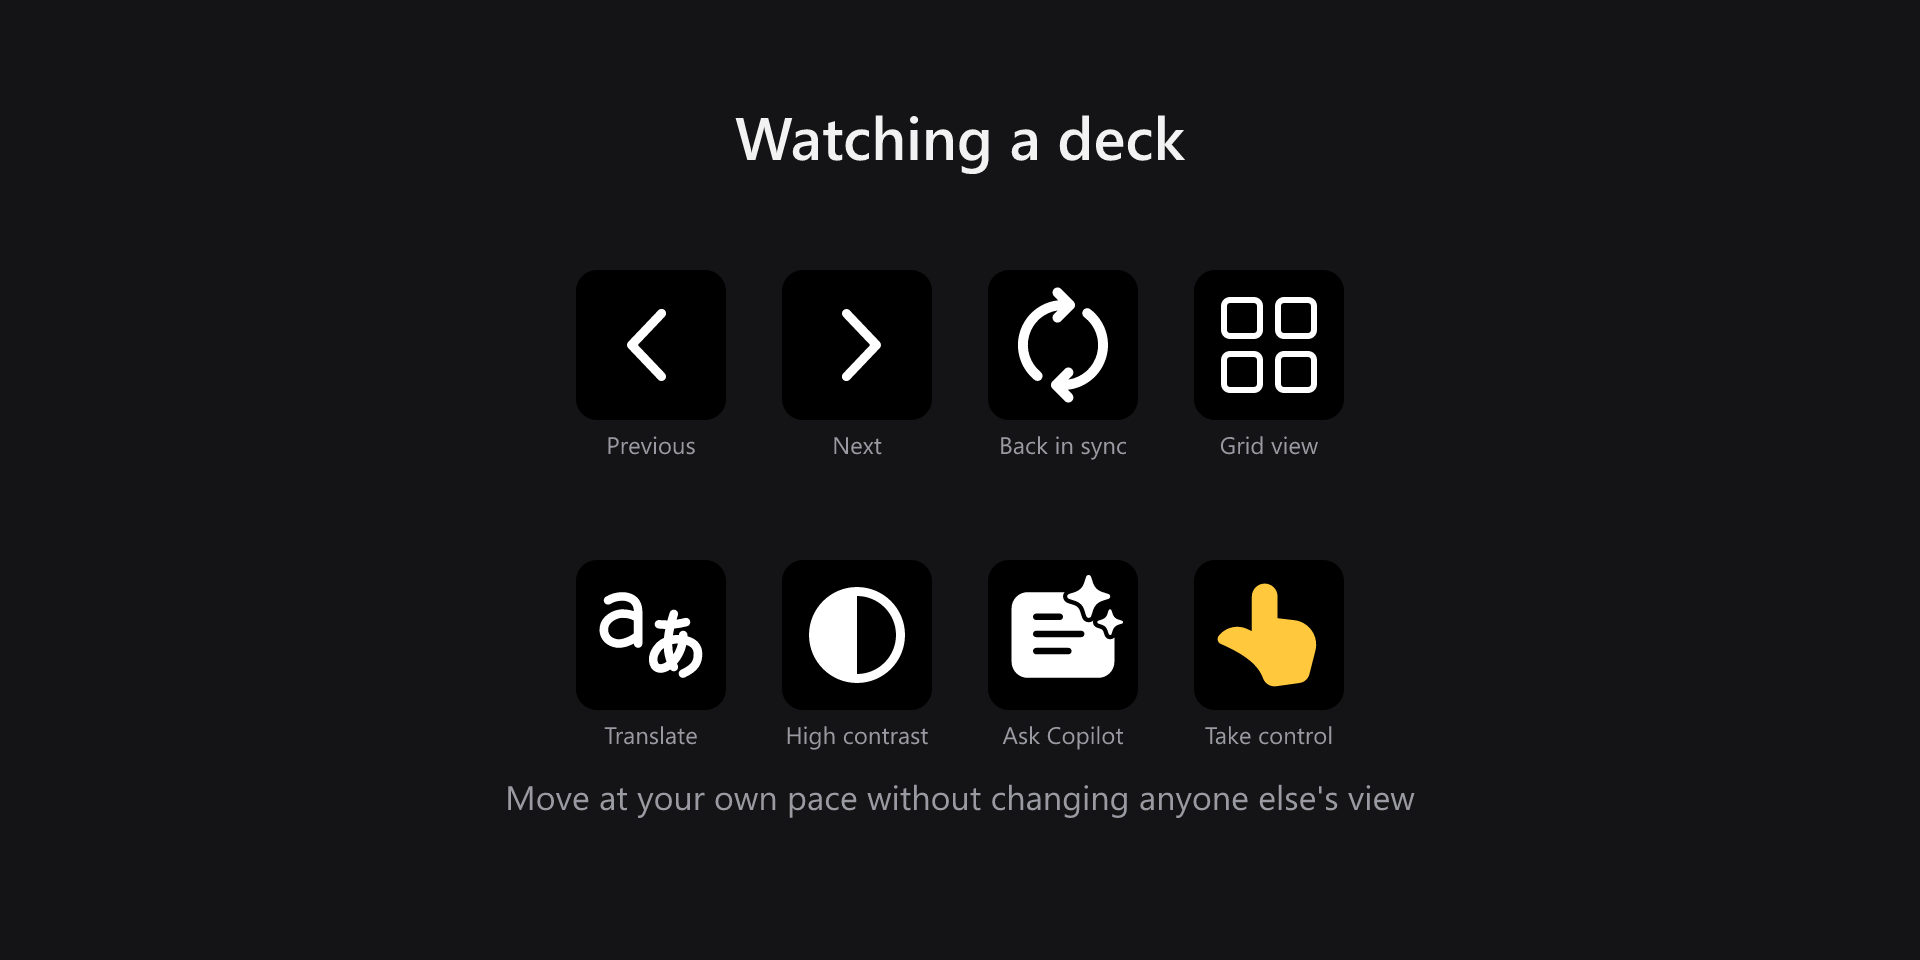
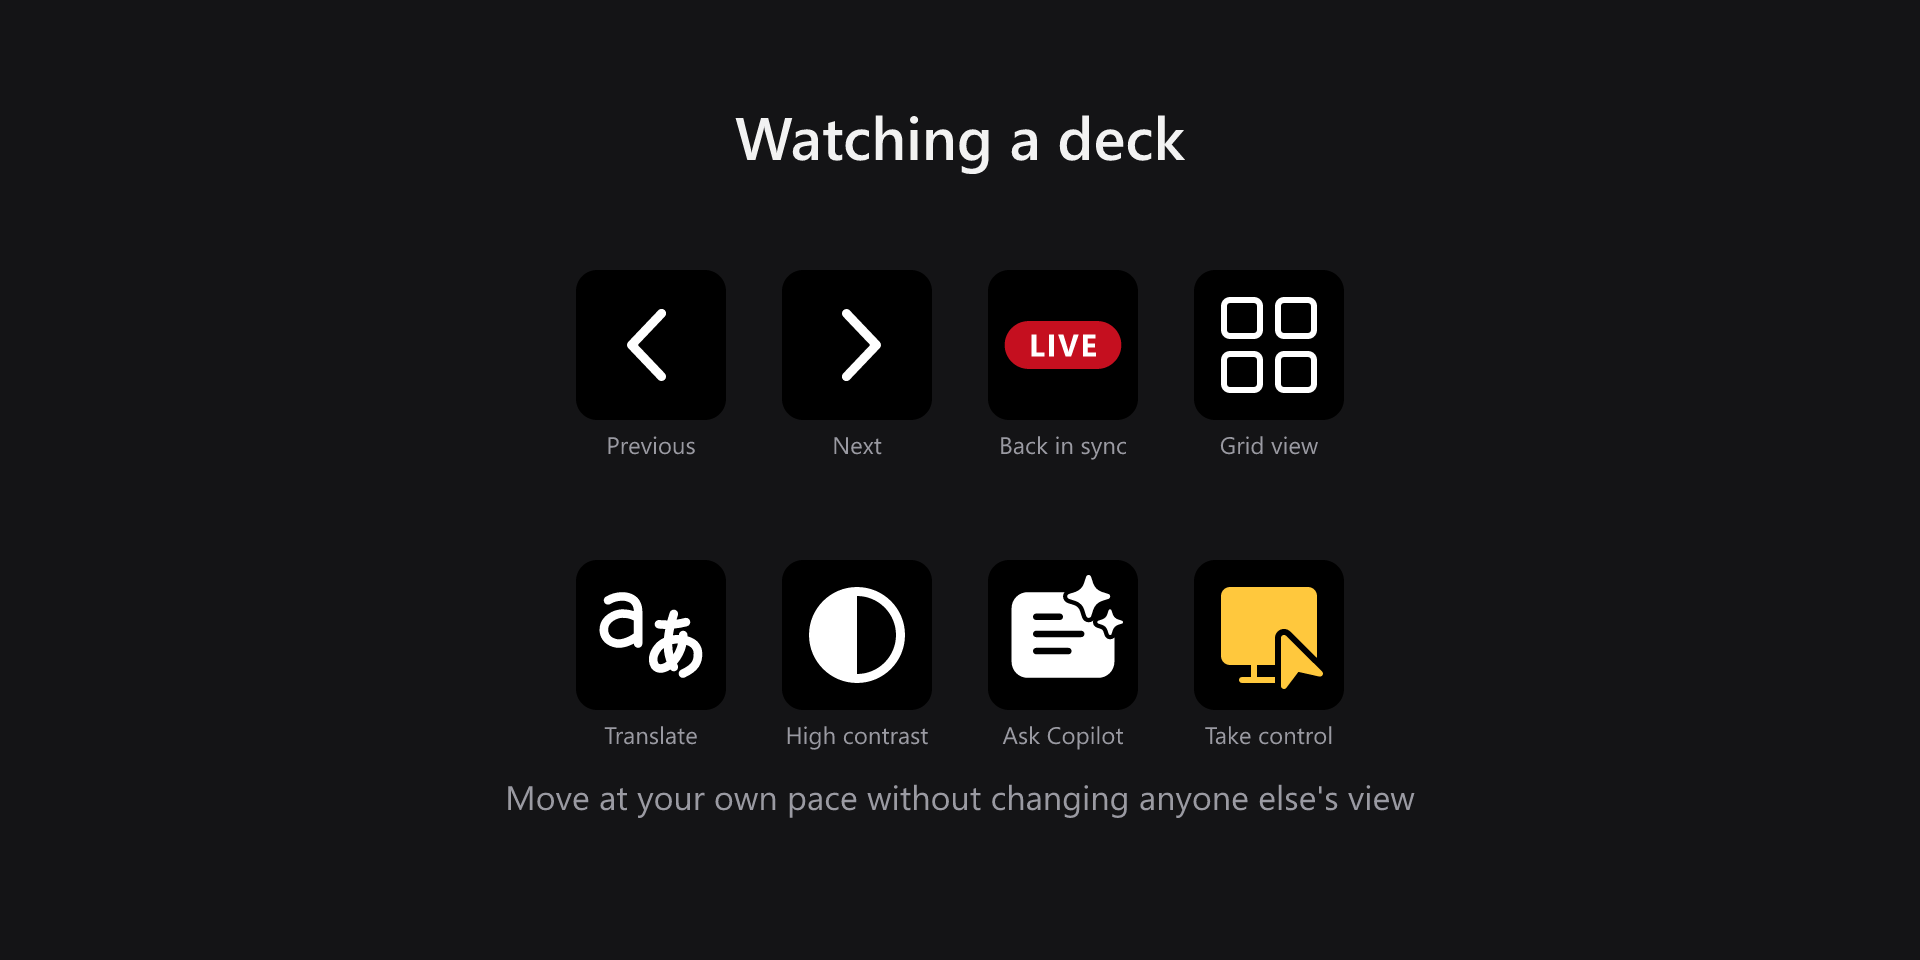
Draw Take control and Sync to presenter the way Teams does
Both were picked from Fluent by name and never checked against the product.
Captured from a live attendee toolbar and neither was close.

Take control is a monitor with a cursor, not a pointing hand: Fluent's
desktop_cursor, on the 20px tier the PowerPoint Live toolbar uses rather than
the 28px one that was mapped. Teams ships that icon re-minified - a cubic where
Fluent writes a quadratic, an explicit close where Fluent implies one - so the
path matcher called it "Teams-specific artwork" when the geometry is identical.
Worth knowing: that near-miss argues for hand-drawing an icon that already
exists upstream.

Sync to presenter has no icon at all. Teams renders a red LIVE pill beside the
words, and a capture of the button returns zero SVGs, so there was never a
glyph to match - arrow_sync was invented. The key now draws the pill, in the
red sampled from the live toolbar. It keeps a monochrome glyph in the action
list, where Elgato requires one.

The capture tooling had two faults that hid all of this:

- The snippet walked only window.top, so from a frame whose top is cross-origin
  it returned an empty array with nothing to explain it. It now starts wherever
  it is run.
- It required an <svg> child, which silently skipped every control drawn as
  text - exactly the case worth finding, because it means there is nothing to
  copy and the key has to be designed.

The matcher also crashed on the shape its own capture snippet emits, and said
[…]

Changed region(s): [[0.625, 0.5938, 0.6875, 0.7188], [0.5, 0.3125, 0.5938, 0.4062]]

diff --git a/tools/match-captured-icons.js b/tools/match-captured-icons.js
@@ -38,11 +38,62 @@ for (const name of readdirSync(ICONS)) {
 console.log(`  ${index.size} distinct paths\n`);
 
 const captured = JSON.parse(readFileSync(file, "utf8"));
-for (const icon of captured.icons) {
-	const hit = index.get(norm(icon.d));
-	const where = hit ? hit.join(", ") : "NO MATCH (Teams-specific artwork)";
-	console.log(`${icon.id}`);
-	console.log(`  label   ${icon.label}`);
-	console.log(`  drawn   ${icon.viewBox.split(" ")[2]}px ${icon.variant}`);
-	console.log(`  fluent  ${where}\n`);
+
+/**
+ * Accepts either shape the capture snippets produce: the older
+ * `{ icons: [{ d, viewBox, variant }] }`, or a bare array of controls each
+ * carrying raw `svg` markup. The two drifted apart, and a capture that cannot
+ * be matched is a capture wasted - the window to take it is a live meeting.
+ */
+function* controls() {
+	if (Array.isArray(captured?.icons)) {
+		for (const icon of captured.icons) {
+			yield {
+				id: icon.id,
+				label: icon.label,
+				size: icon.viewBox ? icon.viewBox.split(" ")[2] : "?",
+				variant: icon.variant ?? "",
+				paths: [icon.d]
+			};
+		}
+		return;
+	}
+
+	const list = Array.isArray(captured) ? captured : [];
+	for (const c of list) {
+		const markup = [].concat(c.svg ?? []).filter(Boolean);
+		const paths = [];
+		let size = "?";
+		let variant = "";
+
+		for (const svg of markup) {
+			const vb = / viewBox="([^"]+)"/.exec(svg);
+			if (vb) size = vb[1].split(" ")[2];
+			if (/fui-Icon-filled/.test(svg)) variant = "filled";
+			else if (/fui-Icon-regular/.test(svg)) variant = "regular";
+			for (const m of svg.matchAll(/ d="([^"]+)"/g)) paths.push(m[1]);
+		}
+		yield { id: c.id ?? "(no id)", label: c.label, size, variant, paths };
+	}
+}
+
+for (const c of controls()) {
+	console.log(`${c.id}`);
+	console.log(`  label   ${c.label}`);
+
+	if (c.paths.length === 0) {
+		// Worth stating rather than skipping: a control with no glyph cannot be
+		// matched to Fluent at all, so its key has to be designed from what
+		// Teams actually draws instead of copied.
+		console.log(`  drawn   no SVG - text or styled markup only`);
+		console.log(`  fluent  NONE - nothing to match\n`);
+		continue;
+	}
+
+	console.log(`  drawn   ${c.size}px ${c.variant}`.trimEnd());
+	for (const d of c.paths) {
+		const hit = index.get(norm(d));
+		console.log(`  fluent  ${hit ? hit.join(", ") : "NO MATCH (Teams-specific artwork)"}`);
+	}
+	console.log();
 }

diff --git a/tests/icons.test.ts b/tests/icons.test.ts
@@ -10,6 +10,7 @@ import {
 	renderEmojiFrame,
 	renderGlyph,
 	renderHandFrame,
+	renderLive,
 	renderReaction,
 	renderReactionFrame,
 	renderSimple,
@@ -359,5 +360,40 @@ describe("private view key", () => {
 
 		expect(ink("pptPrivateViewOff")).toBeGreaterThan(200);
 		expect(ink("pptPrivateView")).toBeLessThan(60);
+	});
+});
+/**
+ * "Sync to presenter" is the one key drawn from scratch rather than from
+ * Fluent. Teams gives the control no icon at all - a capture of the button
+ * returns zero SVGs, because it is a red LIVE pill beside the words - so there
+ * is nothing to path-match and nothing upstream to keep it honest.
+ */
+describe("the live pill", () => {
+	// Sampled from the live attendee toolbar on 2026-09-18, 691 pixels of it.
+	const TEAMS_LIVE_RED = "#C50F1F";
+
+	it("uses the red Teams actually draws", () => {
+		expect(renderLive(true).toUpperCase()).toContain(TEAMS_LIVE_RED);
+	});
+
+	it("says LIVE", () => {
+		expect(renderLive(true)).toContain(">LIVE<");
+	});
+
+	it("drops the red when the control is unavailable", () => {
+		// The button only exists once you have navigated away on your own, so a
+		// dimmed key means you are already watching live. Showing the live red
+		// there would say the opposite of what is true.
+		expect(renderLive(false).toUpperCase()).not.toContain(TEAMS_LIVE_RED);
+	});
+
+	it("is a pill rather than a square", () => {
+		const rx = /<rect[^>]*\brx="([\d.]+)"[^>]*height="(\d+)"/.exec(renderLive(true))
+			?? /<rect[^>]*height="(\d+)"[^>]*\brx="([\d.]+)"/.exec(renderLive(true));
+		expect(rx, "no rounded rect found").toBeTruthy();
+		const svg = renderLive(true);
+		const height = Number(/height="(\d+)"[^>]*rx=/.exec(svg)?.[1] ?? /rx="[\d.]+"[^>]*height="(\d+)"/.exec(svg)?.[1]);
+		const radius = Number(/rx="([\d.]+)"/.exec(svg)?.[1]);
+		expect(radius).toBeCloseTo(height / 2, 1);
 	});
 });

diff --git a/src/icons.ts b/src/icons.ts
@@ -303,6 +303,38 @@ function escapeText(value: string): string {
  * cannot be driven from plugin state without fighting whatever the user typed,
  * and it renders under, not inside, the image.
  */
+/** Teams' live red, sampled from the "Sync to presenter" pill on 2026-09-18. */
+const LIVE_RED = "#C50F1F";
+
+/**
+ * The "Sync to presenter" key.
+ *
+ * Teams gives this control no icon at all: it is a red LIVE pill beside the
+ * words "Sync to presenter", and a capture of the button returns zero SVGs. So
+ * there is no Fluent glyph to match and nothing to copy - the key reproduces
+ * the pill, which is the part that is recognisable at a glance and the reason
+ * the control reads as "you are behind" in the first place.
+ *
+ * Teams only renders the button once you have navigated away on your own, so an
+ * unavailable key means you are already watching live.
+ */
+export function renderLive(available: boolean): string {
+	const fill = available ? LIVE_RED : COLORS.unavailable;
+	const ink = available ? "#FFFFFF" : "#1A1A1D";
+
+	const w = 112;
+	const h = 46;
+	const x = (SIZE - w) / 2;
+	const y = (SIZE - h) / 2;
+
+	return wrap(
+		`<rect x="${x}" y="${y}" width="${w}" height="${h}" rx="${h / 2}" fill="${fill}"/>` +
+			`<text x="${SIZE / 2}" y="${SIZE / 2 + 11}" text-anchor="middle" ` +
+			`font-family="Segoe UI, system-ui, sans-serif" font-size="30" font-weight="700" ` +
+			`letter-spacing="1.5" fill="${ink}">LIVE</text>`
+	);
+}
+
 export function renderLabelled(key: string, label: string, tone: Tone): string {
 	const def = CONTROL_GLYPHS[key];
 	if (!def) return wrap("");

diff --git a/tools/build-glyphs.ts b/tools/build-glyphs.ts
@@ -56,14 +56,19 @@ const CONTROLS: Record<string, string> = {
 	// of the bundle and fills the squares on hover.
 	pptGrid: "grid_20_regular",
 	pptGridOn: "grid_20_filled",
-	pptSync: "arrow_sync_24_filled",
+	pptSync: "arrow_sync_20_filled",
 	// Teams uses Fluent's dark-theme glyph here, not a contrast one - confirmed
 	// by matching the path captured from the live Change view flyout. It already
 	// fills the left half, which is why the earlier stand-in needed rotating and
 	// this does not.
 	pptContrast: "dark_theme_20_filled",
 	pptTranslate: "translate_28_filled",
-	pptTakeControl: "hand_point_28_filled",
+	// Captured from the live attendee toolbar on 2026-09-18: Teams draws a
+	// monitor with a cursor, not a pointing hand. The path it ships is this
+	// Fluent icon re-minified - identical geometry, cubic where Fluent uses a
+	// quadratic - so a string comparison calls it "Teams-specific" and a glance
+	// at the shape calls it what it is.
+	pptTakeControl: "desktop_cursor_20_filled",
 	pptPopout: "window_new_28_filled",
 	pptCopilot: "slide_text_sparkle_28_filled",
 	pptSlide: "slide_text_28_filled",

diff --git a/tools/generate-marketplace.ts b/tools/generate-marketplace.ts
@@ -20,6 +20,7 @@ import {
 	renderEmoji,
 	renderGlyph,
 	renderLabelled,
+	renderLive,
 	renderReaction,
 	renderSimple,
 	renderToggle,
@@ -285,7 +286,7 @@ function galleryWatching(): string {
 		[
 			{ svg: renderSimple("pptPrev", true), caption: "Previous" },
 			{ svg: renderSimple("pptNext", true), caption: "Next" },
-			{ svg: renderSimple("pptSync", true), caption: "Back in sync" },
+			{ svg: renderLive(true), caption: "Back in sync" },
 			{ svg: renderSimple("pptGrid", true), caption: "Grid view" }
 		],
 		270,
@@ -344,6 +345,7 @@ function galleryProfiles(): string {
 			else if (k === "hand") svg = renderEmoji("hand", true);
 			else if (k === "pptPen") svg = tool("ppt-pen", true);
 			else if (k === "pptSlide") svg = renderLabelled("pptSlide", "12/40", "on");
+			else if (k === "pptSync") svg = renderLive(true);
 			else svg = renderSimple(k, true, k === "pptStopPresenting" ? "danger" : "on");
 			body += key(x, 400, size, svg);
 		});

diff --git a/src/actions/powerpoint.ts b/src/actions/powerpoint.ts
@@ -23,6 +23,7 @@ import {
 	presenterViewGlyph,
 	privateViewGlyph,
 	renderGlyph,
+	renderLive,
 	renderLabelled,
 	renderSimple,
 	renderTool,
@@ -168,7 +169,7 @@ export class PptSyncAction extends TeamsAction {
 	protected override draw(state: TeamsState): string {
 		// Gold rather than white: this key lighting up means you are out of step
 		// with the presenter, not merely that a control is available.
-		return renderGlyph("pptSync", usable(state, "ppt-sync") ? "accent" : "unavailable");
+		return renderLive(usable(state, "ppt-sync"));
 	}
 }
 
